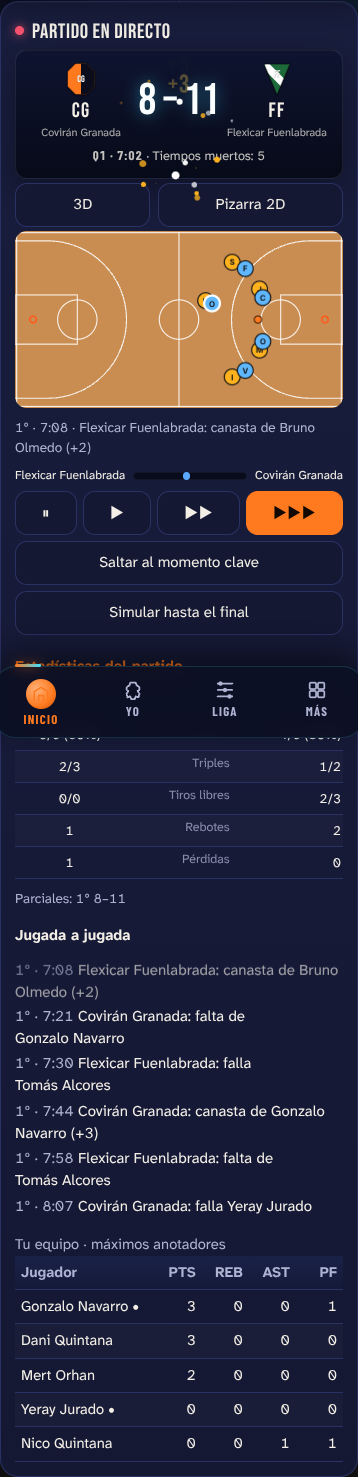
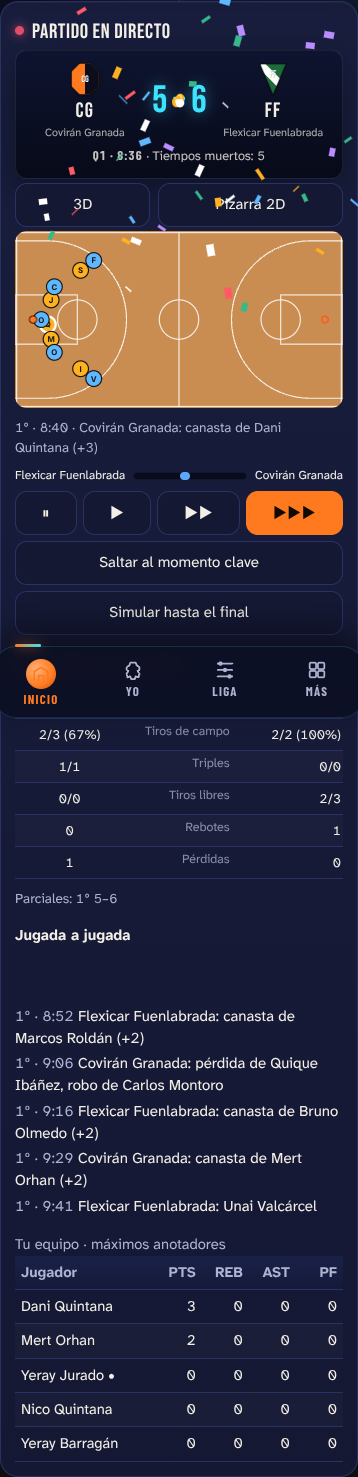
Directo sincronizado con el 3D, modelo de jugadora propio y plantillas por género
- El marcador solo avanza cuando el 3D escenifica la jugada: no hay puntos sin canasta
- Ataques algo más largos, cámara más cerca y sin amontonamientos tras canasta
- Jugadoras más estilizadas, con coleta, moño o trenzas y cinta del color del equipo
- Las plantillas reales se aplican solo a su género (Valencia Basket, Casademont Zaragoza y Virtus Bologna femeninos ya no heredan la masculina)

Claude-Session: https://claude.ai/code/session_019gkjbxBULuptwgp5eXcimF

diff --git a/src/domain/real-rosters.js b/src/domain/real-rosters.js
@@ -4,6 +4,10 @@
   // reales sin serlo. Formato por jugador: [nombre, posición, edad, media, nacionalidad]. Generado fuera del repo.
   const CAA = root.CAA = root.CAA || {};
   const ROSTERS = {"Cleveland Cavaliers":[["Donovan Mittchell","SG",29,84,"US"],["Darius Garrland","PG",26,77,"US"],["Evan Movley","PF",24,81,"US"],["Jarrett Alen","C",27,75,"US"],["De'Andre Hunnter","SF",28,71,"US"],["Max Struz","SG",29,68,"US"],["Sam Merril","SG",29,64,"US"],["Dean Wadde","PF",29,62,"US"],["Lonzo Bal","PG",27,65,"US"],["Jaylon Tison","SF",23,61,"US"]],"Boston Celtics":[["Jaison Tattum","SF",27,86,"US"],["Jailen Broun","SG",29,81,"US"],["Derrikk Whyte","PG",31,76,"US"],["Paiton Prytchard","PG",27,71,"US"],["Neemmias Quetta","C",26,64,"PT"],["Sam Hauzer","SF",27,65,"US"],["Annfernee Symons","SG",26,71,"US"],["Jozh Minnott","PF",23,61,"US"],["Bailor Scheierrman","SG",25,60,"US"],["Lukka Garrza","C",26,60,"US"]],"New York Knicks":[["Jalen Brunnson","PG",29,84,"US"],["Karl-Anthony Touns","C",30,82,"DO"],["OG Anunovy","SF",28,76,"GB"],["Mikal Briddges","SF",29,75,"US"],["Josh Harrt","SG",30,72,"US"],["Mitchell Robynson","C",27,68,"US"],["Miles MkBride","PG",25,65,"US"],["Jordan Clarcson","SG",33,66,"PH"],["Guerschon Yabuzele","PF",29,66,"FR"],["Landry Shammet","SG",28,60,"US"]],"Oklahoma City Thunder":[["Shay Gilgeouz-Alexander","PG",27,90,"CA"],["Jallen Williamms","SF",24,81,"US"],["Chete Hollmgren","C",23,80,"US"],["Lugguentz Dorrt","SG",26,70,"CA"],["Isayah Hartensteyn","C",27,72,"DE"],["Allex Carruso","SG",31,69,"US"],["Casson Walace","PG",22,68,"US"],["Aarron Wyggins","SF",26,65,"US"],["Isayah Joee","SG",26,65,"US"],["Ajai Mitchel","PG",23,64,"BE"]],"Denver Nuggets":[["Nikola Jokyć","C",30,92,"RS"],["Jamal Murrai","PG",28,80,"CA"],["Aaron Gorrdon","PF",30,73,"US"],["Cameron Johnzon","SF",29,71,"US"],["Christian Braune","SG",24,70,"US"],["Peyton Wattson","SF",23,65,"US"],["Bruce Broun","SG",29,65,"US"],["Jonas Valančyūnas","C",33,68,"LT"],["Tim Harrdaway Jr.","SG",33,64,"US"],["Julian Strauther","SG",23,60,"US"]],"Houston Rockets":[["Kevin Durrant","SF",37,84,"US"],["Alperen Şenngün","C",23,82,"TR"],["Amen Thompzon","SF",22,76,"US"],["Jabari Smyth Jr.","PF",22,72,"US"],["Fred VannVleet","PG",31,71,"US"],["Tari Easson","PF",24,68,"US"],["Steven Addams","C",32,66,"NZ"],["Reed Shepparrd","PG",21,66,"US"],["Dorian Finnei-Smith","PF",32,63,"US"],["Clint Cappela","C",31,64,"CH"]],"Indiana Pacers":[["Tyrese Halliburton","PG",25,83,"US"],["Pascal Syakam","PF",31,80,"CM"],["Andrew Nemvhard","PG",25,70,"CA"],["Aaron Nessmith","SF",26,68,"US"],["Bennedict Matthurin","SG",23,70,"CA"],["T.J. McConnel","PG",33,65,"US"],["Obi Toppyn","PF",27,64,"US"],["Jarace Walcer","PF",22,62,"US"],["Isaiah Jackzon","C",23,61,"US"],["Ben Shepparrd","SG",24,60,"US"]],"Minnesota Timberwolves":[["Anthoni Eddwards","SG",24,86,"US"],["Jullius Ranndle","PF",31,77,"US"],["Rudi Govert","C",33,75,"FR"],["Jadden McDanielz","SF",25,72,"US"],["Donnte DiVinncenzo","SG",28,68,"US"],["Naz Reyd","C",26,70,"US"],["Myke Connley","PG",38,63,"US"],["Rob Dyllingham","PG",21,61,"US"],["Terrennce Shanon Jr.","SG",25,60,"US"],["Joe Inglez","SF",38,56,"AU"]],"Los Angeles Lakers":[["Luca Donnčić","PG",26,89,"SI"],["LeBrone Jamez","SF",41,82,"US"],["Ausstin Reavves","SG",27,77,"US"],["Deanndre Aiton","C",27,72,"BS"],["Rui Hacchimura","PF",27,69,"JP"],["Marcuz Smarrt","PG",31,67,"US"],["Jace LaRabia","SF",24,64,"US"],["Jaxzon Hayez","C",25,61,"US"],["Gave Vinkent","PG",29,60,"US"],["Dallton Kneccht","SG",24,61,"US"]],"Golden State Warriors":[["Stephen Curri","PG",37,86,"US"],["Jimmy Buttler","SF",36,79,"US"],["Draymond Greene","PF",35,70,"US"],["Brandin Podzyemski","SG",22,69,"US"],["Jonathan Kumynga","PF",23,70,"CD"],["Moses Mooddy","SG",23,66,"US"],["Buddy Hielld","SG",33,65,"BS"],["Al Horrford","C",39,64,"DO"],["De'Anthony Mellton","SG",27,64,"US"],["Quinten Pozt","C",25,60,"NL"]],"LA Clippers":[["Kawhi Leonnard","SF",34,83,"US"],["James Harrden","PG",36,80,"US"],["Ivica Zubak","C",28,74,"HR"],["John Collinns","PF",28,69,"US"],["Bradley Beale","SG",32,68,"US"],["Derrick Jonnes Jr.","SF",28,65,"US"],["Kris Dun","PG",31,64,"US"],["Nicolas Battum","SF",37,60,"FR"],["Brook Lopes","C",37,63,"US"],["Bogdan Bogdanobić","SG",33,64,"RS"]],"Memphis Grizzlies":[["Ja Morrant","PG",26,83,"US"],["Jaren Jacckson Jr.","PF",26,80,"US"],["Zach Eddey","C",23,70,"CA"],["Santi Alldama","PF",24,67,"ES"],["Jaylen Wels","SF",22,66,"US"],["Scotty Pyppen Jr.","PG",25,64,"US"],["Kentavious Calldwell-Pope","SG",32,63,"US"],["Cedric Couard","SF",22,63,"US"],["Ty Jerrome","PG",28,63,"US"],["Vince Wylliams Jr.","SG",25,63,"US"]],"San Antonio Spurs":[["Vyctor Wembaniama","C",21,88,"FR"],["De'Aarron Foks","PG",28,80,"US"],["Stefon Caztle","SG",21,72,"US"],["Dilan Harrper","PG",19,70,"US"],["Devvin Vazsell","SG",25,70,"US"],["Harryson Barrnes","SF",33,66,"US"],["Kelldon Johnzon","SF",26,66,"US"],["Jerremy Sokhan","PF",22,65,"PL"],["Luce Korrnet","C",30,62,"US"],["Julyan Champagnye","SF",24,63,"US"]],"Dallas Mavericks":[["Anthony Davvis","PF",32,84,"US"],["Kyrie Irbing","PG",33,81,"US"],["Cooper Flagge","SF",19,78,"US"],["Klay Thommpson","SG",35,70,"US"],["P.J. Wazhington","PF",27,70,"US"],["Daniel Gafforrd","C",27,68,"US"],["Dereck Liveli II","C",21,69,"US"],["Naji Marshal","SF",28,65,"US"],["D'Angelo Russel","PG",29,66,"US"],["Max Chrystie","SG",22,63,"US"]],"Sacramento Kings":[["Domantaz Saboniz","C",29,81,"LT"],["Zacch LaVinne","SG",30,78,"US"],["DeMare DeRozzan","SF",36,76,"US"],["Malyk Monc","SG",27,71,"US"],["Keeggan Murrai","PF",25,70,"US"],["Dennys Skhröder","PG",32,67,"DE"],["Russel Wesstbrook","PG",37,64,"US"],["Keone Elis","SG",25,62,"US"],["Devyn Carrter","PG",23,60,"US"],["Dreu Eubankz","C",28,58,"US"]],"Phoenix Suns":[["Devin Bookker","SG",29,84,"US"],["Jalen Greene","SG",23,74,"US"],["Dillon Broocs","SF",29,69,"CA"],["Grayson Alen","SG",30,66,"US"],["Mark Williamz","C",24,69,"US"],["Royce O'Nealle","SF",32,63,"US"],["Ryan Dun","SF",22,62,"US"],["Collin Gilespie","PG",26,63,"US"],["Oso Igghodaro","C",23,60,"US"],["Nick Ricchards","C",28,60,"JM"]],"Portland Trail Blazers":[["Dammian Lilard","PG",35,76,"US"],["Jerrami Grannt","PF",31,70,"US"],["Shaeddon Sharrpe","SG",22,72,"CA"],["Skoot Henderzon","PG",21,67,"US"],["Toummani Cammara","SF",25,68,"BE"],["Donoban Clinngan","C",21,69,"US"],["Jruee Holidai","PG",35,70,"US"],["Rovert Wiliams III","C",28,62,"US"],["Kriz Murrai","PF",25,60,"US"],["Matizse Thibulle","SF",28,62,"US"]],"Orlando Magic":[["Paolo Bannchero","PF",23,84,"US"],["Franz Waggner","SF",24,81,"DE"],["Desmond Banne","SG",27,76,"US"],["Jalen Suggz","PG",24,72,"US"],["Wendell Carrter Jr.","C",26,69,"US"],["Anthony Blakk","PG",21,66,"US"],["Goga Bittadze","C",26,63,"GE"],["Jonathan Issaac","PF",28,64,"US"],["Tyus Jonnes","PG",29,63,"US"],["Tristan da Sillva","SF",24,62,"DE"]],"Detroit Pistons":[["Cade Cuningham","PG",24,85,"US"],["Jalen Durren","C",22,74,"US"],["Ausar Thommpson","SF",22,71,"US"],["Tobias Harrys","PF",33,70,"US"],["Jaden Ivei","SG",23,70,"US"],["Isaiah Steuart","C",24,67,"US"],["Duncan Robynson","SG",31,65,"US"],["Ron Hollannd II","SF",20,63,"US"],["Caris LeVerrt","SG",31,64,"US"],["Marcus Saser","PG",25,60,"US"]],"Milwaukee Bucks":[["Giannis Anntetokounmpo","PF",31,90,"GR"],["Myles Turrner","C",29,74,"US"],["Kevin Porrter Jr.","PG",25,69,"US"],["Kyle Kusma","PF",30,68,"US"],["Bobby Portys","PF",30,67,"US"],["Gary Trennt Jr.","SG",27,65,"US"],["AJ Greene","SG",26,62,"US"],["Taurean Prynce","SF",31,61,"US"],["Ryan Rollyns","PG",23,63,"US"],["Gary Harriz","SG",31,58,"US"]],"Atlanta Hawks":[["Traee Younng","PG",27,82,"US"],["Jallen Johnzon","SF",24,78,"US"],["Krystaps Porziņģiz","C",30,76,"LV"],["Dyzon Danielz","SG",22,73,"AU"],["Nikkeil Alexander-Walcer","SG",27,69,"CA"],["Onnyeka Okonguu","C",25,70,"US"],["Zaccharye Risakher","SF",20,66,"FR"],["Luce Kenard","SG",29,63,"US"],["Mouhammed Gueie","PF",23,60,"SN"],["Kove Buffkin","PG",22,58,"US"]],"Miami Heat":[["Bam Adevayo","C",28,80,"US"],["Tyler Herroe","SG",25,78,"US"],["Norman Pouell","SG",32,72,"US"],["Andrew Wyggins","SF",30,70,"CA"],["Kel'el Warre","C",21,69,"US"],["Davion Mytchell","PG",27,66,"US"],["Jaime Jaques Jr.","SF",24,66,"US"],["Nikola Jovyć","PF",22,65,"RS"],["Terry Rozyer","PG",31,63,"US"],["Pelle Larrsson","SG",24,60,"SE"]],"Philadelphia 76ers":[["Joele Emmbiid","C",31,84,"CM"],["Tyresse Maksey","PG",25,82,"US"],["Paule Georrge","SF",35,76,"US"],["VJ Edgekombe","SG",20,70,"BS"],["Kely Ouvre Jr.","SF",30,68,"US"],["Quenntin Grimez","SG",25,68,"US"],["Jarred MkCain","PG",21,67,"US"],["Anndre Drummonnd","C",32,63,"US"],["Kile Lowri","PG",39,58,"US"],["Justyn Eddwards","SF",21,58,"US"]],"Toronto Raptors":[["Scottie Barnez","SF",24,80,"US"],["Brandon Inngram","SF",28,77,"US"],["Immanuel Quikkley","PG",26,72,"US"],["RJ Barret","SG",25,73,"CA"],["Jakob Poelltl","C",30,71,"AT"],["Gradey Dikk","SG",21,66,"US"],["Ja'Kobe Wallter","SG",21,62,"US"],["Collin Murrai-Boyles","PF",20,63,"US"],["Jamal Sheade","PG",23,60,"US"],["Ochai Agbayi","SG",25,60,"US"]],"Chicago Bulls":[["Josh Giddei","PG",23,75,"AU"],["Nikola Vučevyć","C",35,72,"ME"],["Coby Whyte","SG",25,73,"US"],["Matas Buzelys","SF",21,70,"US"],["Ayo Dozunmu","SG",25,67,"US"],["Patrick Wiliams","PF",24,64,"US"],["Kevin Huerrter","SG",27,64,"US"],["Isaac Ocoro","SF",24,62,"US"],["Tre Jonnes","PG",25,63,"US"],["Jalen Smitth","C",25,62,"US"]],"Charlotte Hornets":[["LaMello Bal","PG",24,80,"US"],["Branndon Myller","SF",23,76,"US"],["Milles Briddges","PF",27,72,"US"],["Kon Knueppele","SG",20,70,"US"],["Colin Sekston","PG",26,69,"US"],["Mousa Dyabaté","C",24,62,"FR"],["Grannt Wylliams","PF",26,62,"US"],["Jozh Greene","SG",25,61,"AU"],["Rian Kalkbrener","C",23,60,"US"],["Tre Man","PG",24,62,"US"]],"Brooklyn Nets":[["Michael Porrter Jr.","SF",27,76,"US"],["Cam Thomaz","SG",24,73,"US"],["Nic Clakston","C",26,70,"US"],["Terance Man","SG",29,65,"US"],["Noah Clownei","PF",21,63,"US"],["Egor Dëmmin","PG",19,64,"RU"],["Day'Ron Sharrpe","C",24,61,"US"],["Ziaire Williamz","SF",24,61,"US"],["Haywood Highzmith","SF",29,60,"US"],["Nolan Traorre","PG",19,60,"FR"]],"Washington Wizards":[["CJ McColum","SG",34,73,"US"],["Khriz Myddleton","SF",34,68,"US"],["Aleksandre Sarre","C",20,70,"FR"],["Bylal Coulivaly","SF",21,68,"FR"],["Bub Carrinngton","PG",20,65,"US"],["Kyzhawn Georrge","SF",22,63,"CH"],["Tre Johnzon","SG",19,65,"US"],["Marbin Baglei III","PF",26,61,"US"],["Correy Kyspert","SF",26,62,"US"],["Cam Whittmore","SF",21,63,"US"]],"New Orleans Pelicans":[["Zion Wiliamson","PF",25,79,"US"],["Trey Murphi III","SF",25,75,"US"],["Dejounte Murrai","PG",29,73,"US"],["Jordan Poolle","SG",26,70,"US"],["Herbert Jonez","SF",27,69,"US"],["Yves Misi","C",21,66,"BE"],["Saddiq Bei","SF",26,64,"US"],["Derik Queene","C",21,65,"US"],["Jeremiah Fearrs","PG",19,63,"US"],["Kevon Loonei","C",29,60,"US"]],"Utah Jazz":[["Lauri Marckanen","PF",28,78,"FI"],["Walker Kezsler","C",24,71,"US"],["Keyonte Georrge","PG",22,70,"US"],["Ace Bailei","SF",19,68,"US"],["Isaiah Collyer","PG",21,64,"US"],["Cody Wiliams","SF",21,62,"US"],["Kyle Filipowzki","C",22,63,"US"],["Svi Mykhayliuk","SF",28,60,"UA"],["Brice Sennsabaugh","SF",22,62,"US"],["Jusuf Nurcić","C",31,63,"BA"]],"Real Madrid":[["Facundo Cammpazzo","PG",34,76,"AR"],["Mario Hezonya","SF",30,76,"HR"],["Walter Tavarez","C",33,75,"CV"],["Gabriel Decck","PF",30,70,"AR"],["Andrés Felliz","PG",28,69,"DO"],["Alberto Avalde","SF",29,66,"ES"],["Sergio Llul","SG",38,64,"ES"],["Usman Garruba","PF",23,67,"ES"],["Théo Malledon","PG",24,68,"FR"],["Trey Liles","PF",30,68,"CA"],["Chuma Okkeke","PF",27,64,"US"],["Alex Lene","C",32,64,"UA"]],"Barça":[["Kevyn Punnter","SG",32,74,"US"],["Jan Vesselý","C",35,68,"CZ"],["Tommáš Satoranscý","PG",34,69,"CZ"],["Joele Parrae","PF",25,66,"ES"],["Wylly Herrnangómez","C",31,71,"ES"],["Darrío Brisuela","SG",31,68,"ES"],["Niko Lapprovíttola","PG",35,66,"AR"],["Myles Norriz","PF",25,65,"US"],["Wyll Clyvurn","SF",35,70,"US"],["Torrnike Shengelya","PF",34,68,"GE"],["Miles Calle","SG",26,63,"US"],["Juanni Marcoz","PG",24,60,"AR"]],"Valencia Basket":[["Jean Monntero","PG",22,72,"DO"],["Brancou Badyo","PG",26,66,"SN"],["Sergio de Larreae","PG",20,67,"ES"],["Jaime Pradylla","PF",24,65,"ES"],["Xabi López-Arosteguy","SF",28,66,"ES"],["Josep Puerrto","SG",30,64,"ES"],["Yankuba Syma","C",28,65,"ES"],["Matt Coztello","C",32,64,"US"],["Omari Moorre","SG",25,65,"US"],["Darius Thommpson","PG",30,67,"US"],["Kameron Tailor","SF",31,67,"US"],["Neal Sakko","C",26,63,"FR"]],"Unicaja":[["Tyzon Carrter","SG",26,69,"US"],["Kenndrick Perri","PG",33,68,"ME"],["Tiler Kalinozki","SG",33,65,"US"],["Alverto Días","PG",31,63,"ES"],["Kyllian Tyllie","PF",27,66,"FR"],["Olec Balcerouski","C",25,66,"PL"],["Davvid Kravvish","C",33,64,"US"],["Chriz Duarrte","SG",28,67,"DO"],["Jonnathan Barreirro","PF",28,62,"ES"],["Nyhad Djeddović","SF",35,61,"BA"]],"Baskonia":[["Markuz Howarrd","PG",26,72,"US"],["Trennt Forresst","PG",27,67,"US"],["Tymothé Luwawu-Cabbarrot","SF",30,67,"FR"],["Khallifa Dyop","C",23,66,"SN"],["Taddas Seddekerskis","PF",27,65,"LT"],["Roddions Kuruks","SF",27,64,"LV"],["Hamydou Dialo","SG",27,67,"US"],["Koby Simmonns","PG",28,65,"US"],["Raffa Vilar","PG",24,60,"ES"],["Mamady Diakkite","PF",28,64,"GN"]],"La Laguna Tenerife":[["Marrcelinho Huerrtas","PG",42,68,"BR"],["Aarron Doornecamp","SF",40,60,"CA"],["Gio Sherrmadini","C",36,66,"GE"],["Brunno Fytipaldo","PG",34,64,"UY"],["Frane Guerrae","C",33,61,"ES"],["Jaimme Fernándes","SG",32,63,"ES"],["Tim Abromaytis","PF",35,61,"US"],["Rubbén Domíngues","SF",21,62,"ES"]],"Dreamland Gran Canaria":[["Mike Tobei","C",31,66,"US"],["Nicolás Brusino","SF",32,61,"AR"],["Pierre Peloz","SF",33,62,"FR"],["Miquel Sallvó","SF",30,60,"ES"],["Ethan Happe","C",29,65,"US"],["Andrew Albiky","PG",35,62,"FR"],["Jovan Kljajyć","SG",26,61,"RS"],["Chris Chyozza","PG",30,62,"US"],["Ziga Sammar","PG",24,62,"SI"],["Mike Daume","PF",30,61,"US"]],"UCAM Murcia":[["Dylan Enniz","PG",34,67,"CA"],["David DeJulyus","PG",26,66,"US"],["Howard Sant-Rooz","SF",34,62,"CU"],["Emanuel Catte","PF",26,62,"US"],["Simon Birrgander","C",28,61,"SE"],["Sadiel Rojaz","SF",35,60,"DO"],["Nemanja Radobić","PF",34,59,"ME"],["Jonah Raddebaugh","SG",28,60,"US"]],"Joventut Badalona":[["Riccy Rubyo","PG",35,67,"ES"],["Guilem Vibes","PG",32,63,"ES"],["Annte Tomyć","C",38,62,"HR"],["Kazsius Robbertson","SG",31,64,"CA"],["Sam Decker","SF",31,63,"US"],["Cammeron Hunnt","SG",28,61,"US"],["Migguel Alen","PF",21,60,"ES"],["Yannikk Kraage","C",21,60,"NL"],["Pep Bussquets","SG",21,58,"ES"],["Mychael Ruzik","C",20,58,"HR"]],"Casademont Zaragoza":[["Sannti Yussta","SF",28,64,"ES"],["Joaqquín Rodrígues","PG",31,60,"ES"],["Dussan Myletić","C",27,62,"RS"],["Traee Bell-Haines","PG",30,63,"CA"],["Bel Lluíz","PF",25,58,"ES"],["Lucaz Langaryta","SG",28,59,"ES"],["Perre Tomàz","SF",31,58,"ES"],["Emmannuel Leccomte","SG",30,59,"BE"],["Ilymane Dyop","C",30,59,"SN"]],"Surne Bilbao Basket":[["Margiris Norrmantas","SG",29,63,"LT"],["Harald Eggerrs","SG",21,60,"DE"],["Melwin Pantsar","PG",25,62,"SE"],["Tryggvi Hlinazon","C",28,62,"IS"],["Luke Petrazek","PF",30,61,"US"],["Justin Jaworrski","SG",26,61,"US"],["Amar Syla","PF",23,61,"SN"],["Aleix Fonnt","SG",27,59,"ES"],["Bassala Bagaioko","PF",19,58,"ML"],["Stefan Lasarević","SF",28,59,"RS"]],"Río Breogán":[["Eryk Quyntela","SF",27,61,"ES"],["Sergy Quyntela","PG",24,59,"ES"],["Branndon Tailor","PG",31,62,"US"],["Jorrdan Sacho","C",27,61,"FR"],["Mikkel Okkouo","SF",21,59,"ES"],["Calev Homeslei","SG",29,62,"US"],["Joele Sorriano","C",26,60,"US"],["Ben Mvala","C",33,58,"CM"],["Maryo Sainnt-Supéry","PG",19,60,"ES"],["Daullton Hommez","SF",28,60,"US"]],"BAXI Manresa":[["Dany Péres","PG",35,61,"ES"],["Marrcis Steinbergz","SF",26,60,"LV"],["Gerrard Gommila","PG",21,58,"ES"],["Grannt Gollden","C",27,60,"US"],["Raffa Martínes","SG",43,55,"ES"],["Pyerre Oryola","C",33,59,"ES"],["Bryce Dezsert","C",30,59,"FR"],["Mammadou Nyang","PF",27,60,"SN"],["Ivvan Kharrchenkov","SF",20,61,"DE"],["Jonnathan Tabbu","PG",39,57,"BE"]],"MoraBanc Andorra":[["Ferran Basas","PG",32,62,"ES"],["Clevin Hanah","PG",38,58,"US"],["Shannon Ebans","PG",35,61,"US"],["Pablo Péres","PG",24,58,"ES"],["Kyle Alman","SG",28,61,"US"],["Ben Lammerrs","C",30,60,"US"],["Trey Thompkyns","PF",35,58,"US"],["Babatunde Olumuyywa","C",27,59,"NG"],["Jerrick Hardyng","SG",27,61,"US"],["Jeremy Senglyn","PG",29,59,"US"]],"Bàsquet Girona":[["Mark Gassol","C",40,60,"ES"],["Pau Rivas","SG",38,56,"ES"],["Riccard Losano","PF",21,57,"ES"],["Jacov Wilei","PF",31,60,"US"],["Etthan Essposito","SF",25,59,"IT"],["Micchael Devvoe","SG",26,61,"US"],["Luddee Håkanzon","PG",29,60,"SE"],["Mindaugaz Kuzmynskas","SF",36,57,"LT"],["Mice Smyth","SF",30,58,"US"],["Serrgi Martínes","SF",26,58,"ES"]],"Hiopos Lleida":[["Kile Manngas","SG",28,60,"US"],["Oryol Paullí","SF",32,58,"ES"],["Ike Iroegvu","PG",30,59,"NG"],["Jamez Battemon","SG",28,60,"US"],["Kerrem Kannter","C",31,59,"TR"],["Joane Tomàz","PF",29,57,"ES"],["Jejjuan Hyll","SG",26,58,"US"],["Edu Durrán","C",24,56,"ES"]],"San Pablo Burgos":[["Alex Barrerra","PG",33,59,"ES"],["Gonzalo Corvalán","PG",30,58,"AR"],["Juanma Roddríguez","SG",28,57,"ES"],["Kyle Aleksander","C",28,60,"CA"],["Jeff Garret","PF",30,59,"US"],["Ruben Guerrerro","C",31,58,"ES"],["Diego Gyl","SF",26,56,"ES"],["Matt Thomaz","SG",31,60,"US"],["Raúl Netto","PG",33,60,"BR"],["Bobi Klinntman","PF",30,58,"SE"]],"Leyma Coruña":[["Phil Skrubb","SG",33,59,"CA"],["Thomas Broppleh","SG",35,57,"US"],["Kevin Larzen","C",34,58,"DK"],["Diego Aggulló","PF",28,56,"ES"],["Atoumane Dyagne","C",26,58,"SN"],["Iván Crus","PF",36,56,"ES"],["Jacob Pulen","PG",36,57,"US"],["Obi Ennechionyia","PF",31,57,"US"],["Kendall Munnson","SF",26,56,"US"]],"AS Monaco":[["Mike Jamez","PG",35,74,"US"],["Elie Okovo","PG",28,70,"FR"],["Alpha Dialo","SF",28,68,"US"],["Daniel Theys","C",33,67,"DE"],["Mam Jaitteh","C",30,66,"FR"],["Nikola Myrotić","PF",34,72,"ME"],["Matthew Strazzel","PG",23,64,"FR"],["Jaron Blozsomgame","PF",32,64,"US"],["Kevarrius Hayez","C",28,63,"US"],["Yakuba Ouatara","SG",33,60,"FR"]],"Paris Basketball":[["Tyson Warrd","SF",27,67,"US"],["Nadir Hiffi","PG",23,70,"FR"],["Derrick Alzton","SF",25,65,"US"],["Mikael Janntunen","PF",25,66,"FI"],["Collin Malkolm","SF",27,63,"US"],["Sebastian Herrerra","SG",28,63,"US"],["Amir Hynton","SG",28,63,"US"],["Mohamed Diauara","SF",21,62,"FR"],["Maodo Lôe","PG",33,64,"DE"],["Leon Krattzer","C",28,62,"DE"]],"LDLC ASVEL":[["Nando De Collo","SG",38,66,"FR"],["Paris Leee","PG",30,64,"US"],["Edwin Jaccson","SG",36,60,"FR"],["Joffrey Laubergne","C",34,62,"FR"],["Melvin Ajjinça","SF",21,64,"FR"],["Bonzie Colzon","PF",29,63,"US"],["David Ligghty","SF",37,56,"US"],["Ismaël Baco","C",30,60,"BE"],["Charles Kahuddi","SF",39,55,"FR"]],"Virtus Bologna":[["Carsen Eddwards","PG",27,71,"US"],["Matt Morrgan","SG",28,65,"US"],["Alessandro Payola","PG",26,63,"IT"],["Saliou Nyang","SF",21,64,"IT"],["Luca Vyldoza","PG",30,64,"AR"],["Momo Dyouf","C",24,63,"IT"],["Nicola Acele","PF",30,61,"IT"],["Isaïa Corrdinier","SG",29,65,"FR"],["Achille Pollonara","PF",34,62,"IT"]],"Olimpia Milano":[["Shavon Shyelds","SF",31,71,"DK"],["Armoni Brookks","SG",27,66,"US"],["Leandro Bollmaro","SF",25,66,"AR"],["Zach LeDai","PF",31,67,"US"],["Josh Nevo","C",28,67,"US"],["Stefano Tonnut","SG",32,62,"IT"],["Giampaolo Rycci","PF",34,58,"IT"],["Lorenzo Broun","PG",35,64,"ES"],["Nico Mannyon","PG",24,64,"IT"]],"FC Bayern München":[["Anndreas Obzt","SG",29,67,"DE"],["Niells Gyffey","SF",34,60,"DE"],["Johannez Voygtmann","PF",33,64,"DE"],["Devyn Boocer","PF",34,64,"US"],["Vladymir Lučyć","SF",36,61,"RS"],["Spenker Dinuiddie","PG",32,67,"US"],["Ozcar da Silba","PF",27,64,"DE"],["Nikk Weiller-Babb","SG",30,61,"DE"],["Davvid MkCormack","C",26,62,"US"]],"ALBA Berlin":[["Mateo Spaggnolo","PG",23,64,"IT"],["Marrtin Hermannson","PG",31,62,"IS"],["Tim Skhneider","PF",28,60,"DE"],["Mallte Dellow","SG",24,60,"DE"],["Gavriele Prokida","SF",23,62,"IT"],["Yani Wetzel","C",29,61,"NZ"],["Trevyon Williamz","C",25,61,"US"],["Jonaz Mattiseck","SG",25,59,"DE"],["Louys Ollinde","PF",27,60,"DE"],["Juztin Beane","PF",28,58,"US"]],"Fenerbahçe Beko":[["Wade Balduin IV","PG",29,72,"US"],["Nigel Hayess-Davis","SF",30,73,"US"],["Tarik Biverović","SF",24,67,"BA"],["Devon Hal","SG",30,66,"US"],["Nicolò Melly","PF",35,65,"IT"],["Sertaç Şannlı","C",34,63,"TR"],["Arturs Žagarz","PG",25,64,"LV"],["Talen Horton-Tuccer","SG",25,67,"US"],["Khem Birrch","C",33,63,"CA"],["Chris Sillva","C",29,64,"GA"]],"Anadolu Efes":[["Shanne Larcin","PG",33,72,"TR"],["Rodrygue Beauboys","SG",37,62,"FR"],["Vyncent Poirrier","C",32,68,"FR"],["Errcan Ozmani","PF",28,62,"TR"],["Wyll Cummingz","PG",33,62,"US"],["Ellijah Bryannt","SG",30,68,"US"],["Tivor Pleyß","C",36,61,"DE"],["Jorrdan Loid","SG",32,66,"PL"]],"Olympiacos":[["Sazha Vezenkob","PF",30,76,"BG"],["Eban Fournyer","SF",33,70,"FR"],["Koztas Papanicolaou","SF",35,64,"GR"],["Thommas Walcup","PG",33,67,"US"],["Nykola Mylutinov","C",31,70,"RS"],["Mouztapha Fal","C",33,67,"FR"],["Kebin McClayn","SG",27,63,"US"],["Shaquyelle MkKissic","SF",35,60,"US"],["Allec Peterz","PF",30,63,"US"],["Tiler Dorsei","SG",29,66,"GR"]],"Panathinaikos AKTOR":[["Kendrick Nun","PG",30,76,"US"],["Kostas Sloucas","PG",35,66,"GR"],["Mathias Lezsort","C",30,70,"FR"],["Cedi Ozman","SF",30,69,"TR"],["Juancho Hernangómes","PF",30,66,"ES"],["Jerian Grannt","PG",33,66,"US"],["Omer Yurrtseven","C",27,66,"TR"],["Kostas Mytoglou","PF",29,64,"GR"],["TJ Shorrts","PG",28,68,"US"],["Richaun Holmez","C",32,64,"US"]],"Žalgiris Kaunas":[["Silvain Francysco","PG",28,69,"FR"],["Lucas Lekavyčius","PG",31,64,"LT"],["Iggnas Brasdeikis","SF",26,65,"LT"],["Laurinas Byrutis","C",28,64,"LT"],["Deibidas Sirrvydis","SF",25,62,"LT"],["Eddgaras Ullanovas","SF",33,60,"LT"],["Arrnas Butcevičius","SG",33,58,"LT"],["Manntas Rubbštavičius","SG",25,60,"LT"],["Brice Hopkyns","SF",23,62,"US"],["Mozes Wryght","PF",27,63,"US"]],"Partizan Mozzart Bet":[["Carrlik Jonnes","PG",28,68,"JM"],["Sterlyng Broun","SF",30,64,"US"],["Duanne Wazhington Jr.","SG",25,66,"US"],["Issaac Bonnga","SF",26,64,"DE"],["Tirique Jonnes","C",28,65,"US"],["Draggan Milosavlyević","SF",36,58,"RS"],["Shace Mylton","SG",29,66,"US"],["Brunno Cavoclo","PF",30,64,"BR"],["Alleksej Pokušebski","PF",24,63,"RS"],["Marrio Nakkić","SF",24,61,"RS"]],"Crvena Zvezda Meridianbet":[["Cody Miller-MkIntyre","PG",31,67,"BG"],["Nicola Kalynić","SF",34,62,"RS"],["Oggnjen Dobbrić","SF",31,62,"RS"],["Hazsan Martyn","C",30,64,"US"],["Jorrdan Nworra","SF",27,67,"NG"],["Chimma Monece","PF",30,66,"NG"],["Ebuca Izzundu","C",29,62,"NG"],["Debonte' Grahame","PG",30,64,"US"],["Steffan Milyenović","SG",24,58,"RS"]],"Dubai Basketball":[["Džennan Mussa","SF",26,70,"BA"],["Klemmen Prepelyč","SG",32,65,"SI"],["Alecsa Abramović","SG",31,64,"RS"],["Daviz Berrtāns","PF",33,63,"LV"],["Mfyondu Kabbengele","C",28,64,"CA"],["McKinnley Wryght IV","PG",27,66,"US"],["Fillip Pettrušev","C",25,66,"RS"],["Awuddu Abazs","SF",32,60,"IT"],["Jusstin Cobbz","PG",34,60,"US"],["Ahmade Al Mazri","PG",25,56,"AE"]],"Minnesota Lynx":[["Napheeza Collyer","PF",29,86,"US"],["Kaila McBryde","SG",33,73,"US"],["Courrtney Wiliams","PG",31,73,"US"],["Allanna Smitth","C",29,70,"AU"],["Brydget Carrleton","SF",28,66,"CA"],["Nattisha Hyedeman","PG",28,64,"US"],["Jesica Sheppard","PF",29,65,"US"],["Dyamond Myller","SF",24,62,"US"],["Marria Kliunndikova","C",28,60,"RU"]],"New York Liberty":[["Breanna Steuart","PF",31,86,"US"],["Sabrina Ionezcu","PG",28,82,"US"],["Jonquel Jonnes","C",32,78,"BS"],["Natasha Cloude","PG",33,70,"US"],["Leonie Fiebikh","SF",25,66,"DE"],["Kennedy Burrke","SG",28,62,"US"],["Emma Meessemman","PF",32,72,"BE"],["Nyara Sabbally","PF",25,62,"DE"],["Isabelle Harrizon","C",32,60,"US"]],"Las Vegas Aces":[["A'ya Willson","C",29,90,"US"],["Jakkie Younng","SG",28,79,"US"],["Chelzea Grai","PG",33,74,"US"],["Jewel Loid","SG",32,72,"US"],["NaLyzsa Smyth","PF",25,66,"US"],["Danna Evvans","PG",27,63,"US"],["Kyah Stoces","C",32,60,"US"],["Cheyene Parker-Tyuz","PF",33,62,"US"],["Aalyyah Nie","SG",22,60,"US"]],"Indiana Fever":[["Caittlin Clarrk","PG",24,86,"US"],["Alyyah Bozton","C",24,80,"VI"],["Kelsei Mitchel","SG",30,77,"US"],["Nattasha Houard","PF",34,70,"US"],["Leksie Hul","SF",26,64,"US"],["Sopphie Cunninngham","SG",29,64,"US"],["Sidney Colzon","PG",36,56,"US"],["Dammiris Dantaz","PF",33,60,"BR"],["Makaila Timmpson","PF",22,58,"US"]],"Phoenix Mercury":[["Allyssa Thommas","PF",33,82,"US"],["Kahleahe Coppere","SG",31,78,"US"],["Sattou Sabbally","SF",27,78,"DE"],["Monyque Akoa Makany","PG",25,62,"CM"],["Nattasha Macc","C",28,62,"US"],["DeWana Boner","SF",38,64,"US"],["Sammi Whitkomb","SG",37,62,"AU"],["Kitiya Lacsa","SG",29,62,"LV"],["Leksi Helld","SG",26,58,"US"]],"Atlanta Dream":[["Alisha Grai","SG",30,80,"US"],["Rhine Howarrd","SG",25,79,"US"],["Britney Grinner","C",35,70,"US"],["Bryonna Jonez","C",30,72,"US"],["Jorrdin Cannada","PG",30,70,"US"],["Naz Hilmon","PF",25,65,"US"],["Te-Hyna Paoppao","PG",23,62,"US"],["Maia Caldwel","SG",27,60,"US"],["Nia Coffei","PF",30,58,"US"]],"Seattle Storm":[["Nnekka Oggwumike","PF",35,78,"US"],["Scylar Digginz","PG",35,76,"US"],["Gavby Williamms","SF",29,72,"FR"],["Ezi Maggbegor","C",26,72,"AU"],["Eryca Wheeller","PG",34,64,"US"],["Domminique Mallonga","C",20,66,"FR"],["Brittnei Syces","SG",31,70,"US"],["Lexye Broun","SG",31,60,"US"],["Macckenzie Holmez","PF",25,58,"US"]],"Golden State Valkyries":[["Kayla Thorrnton","SF",33,68,"US"],["Veronica Burrton","PG",25,68,"US"],["Tiffany Hayez","SG",36,65,"AZ"],["Janelle Sallaün","PF",24,64,"FR"],["Temi Fággbénlé","C",33,62,"GB"],["Cecilia Zandalasyni","SF",29,64,"IT"],["Monique Bilings","PF",29,62,"US"],["Iliana Ruppert","C",24,64,"FR"],["Kate Martyn","SG",25,58,"US"]],"Washington Mystics":[["Kikki Irriafen","PF",22,70,"US"],["Sonya Cittron","SG",22,70,"US"],["Shakkira Ausstin","C",25,69,"US"],["Aalliyah Edwardz","PF",23,64,"CA"],["Jadde Melvourne","PG",23,60,"AU"],["Georgya Ammoore","PG",23,62,"AU"],["Emyly Enngstler","PF",25,60,"US"],["Sug Suton","PG",26,58,"US"]],"Los Angeles Sparks":[["Kelsei Plume","PG",31,79,"US"],["Dearika Hambi","PF",32,74,"US"],["Asurá Stebens","PF",29,70,"US"],["Ryckea Jakkson","SF",24,68,"US"],["Cammeron Brynk","PF",24,66,"US"],["Rae Burrel","SG",25,60,"US"],["Julye Vannloo","PG",32,60,"BE"],["Emmae Canon","PF",36,56,"US"],["Oddyssey Simms","PG",33,58,"US"]],"Chicago Sky":[["Angel Reesse","PF",23,76,"US"],["Kamilla Cardozo","C",24,72,"BR"],["Ariel Atkinz","SG",29,70,"US"],["Courtney Vanndersloot","PG",36,66,"HU"],["Rachel Bannham","PG",32,62,"US"],["Michaela Onnyenwere","SF",26,60,"US"],["Hailey Van Lyth","PG",24,60,"US"],["Elizabeth Williamms","C",32,60,"US"],["Kia Nurrse","SG",29,58,"CA"]],"Dallas Wings":[["Payge Bueccers","PG",24,80,"US"],["Arrike Ogunvowale","SG",29,76,"US"],["Maddi Sieggrist","PF",26,66,"US"],["Myysha Hines-Alen","PF",29,62,"US"],["Li Yuerru","C",26,64,"CN"],["DyJonai Carrinngton","SG",27,64,"US"],["Halley Jonez","SF",24,60,"US"],["Azziaha Jamez","SG",22,58,"US"],["Luiza Geizelsöder","C",25,60,"DE"]],"Connecticut Sun":[["Marina Mabrei","SG",29,70,"US"],["Tina Charrles","C",37,68,"US"],["Saniya Ribers","SF",22,64,"US"],["Aneesah Morrou","PF",23,66,"US"],["Olivia Nelzon-Ododa","C",25,62,"US"],["Leïla Laccan","PG",21,62,"FR"],["Bria Hartlei","SG",33,60,"US"],["Jacy Shelldon","PG",24,60,"US"],["Lindsay Alen","PG",30,58,"US"]],"Toronto Tempo":[["Nattalie Achonua","PF",33,62,"CA"],["Laetticia Ammihere","PF",24,62,"CA"],["Nyrra Fyelds","SG",31,60,"CA"],["Shai Collei","PG",29,60,"CA"],["Sila Suords","SF",20,60,"CA"],["Kaila Allexander","C",34,58,"CA"]],"Portland Fire":[["Teaira MkCowan","C",29,66,"US"],["Kiana Wiliams","PG",28,58,"US"],["Destanni Hennderson","PG",27,58,"US"],["Megan Guztafson","C",29,58,"US"],["Haley Peterz","SF",33,56,"US"],["Bree Hal","SG",24,56,"US"]]};
-  CAA.RealRosters = { ROSTERS };
+  // Plantillas femeninas (WNBA). El resto son masculinas: un club con sección femenina del mismo nombre (Valencia
+  // Basket, Casademont Zaragoza, Virtus Bologna…) no debe heredar la plantilla masculina.
+  const WOMEN = new Set(['Minnesota Lynx', 'New York Liberty', 'Las Vegas Aces', 'Indiana Fever', 'Phoenix Mercury', 'Atlanta Dream', 'Seattle Storm', 'Golden State Valkyries', 'Washington Mystics', 'Los Angeles Sparks', 'Chicago Sky', 'Dallas Wings', 'Connecticut Sun', 'Toronto Tempo', 'Portland Fire']);
+  function forClub(name, gender) { const r = ROSTERS[name]; if (!r) return null; return (gender === 'women') === WOMEN.has(name) ? r : null; }
+  CAA.RealRosters = { ROSTERS, WOMEN, forClub };
   if (typeof module !== 'undefined' && module.exports) module.exports = CAA.RealRosters;
 })(typeof globalThis !== 'undefined' ? globalThis : this);

diff --git a/src/render/livesim.js b/src/render/livesim.js
@@ -16,7 +16,7 @@
     [[6.8, 1.8], [1.0, -6.4], [6.6, -3.6], [4.8, -1.5], [1.6, 2.2]],
     [[7.2, -1.2], [5.8, 4.4], [1.0, 6.4], [1.8, -2.2], [4.4, 1.6]]
   ];
-  const MAXDUR = { jump: 2.6, shot: 4.6, rebound: 2.0, turnover: 2.6, foul: 1.2, ft: 2.6, flow: 0.3, final: 1e9 };
+  const MAXDUR = { jump: 2.6, shot: 4.4, rebound: 1.6, turnover: 2.2, foul: 1.0, ft: 2.2, flow: 0.3, final: 1e9 };
   const FILLER = { foul: 1, rebound: 1, ft: 1, turnover: 1 };
   const ZONE = { restricted: [0.9, 0.5], paint: [2.6, -1.4], midShort: [4.3, 2.4], midLong: [5.6, -3.4], corner3: [0.9, 6.55], above3: [7.4, 0.8] };
 
@@ -153,7 +153,7 @@
         else { passTo(sim, s.shooter); s.gotBall = true; }
       }
       const near = Math.hypot(sh.x - x, sh.z - zz) < 0.7;
-      if (s.gotBall && b.holder === s.shooter && !b.flight && (near || s.t > 3.2) && !s.released) {
+      if (s.gotBall && b.holder === s.shooter && !b.flight && (near || s.t > 2.7) && !s.released) {
         s.released = true; s.relT = s.t; sh.jumpT = 0; sh.arms = 1; df.jumpT = 0.05; df.arms = 1;
         const hx = hoopX(sim, off), dist = Math.hypot(hx - sh.x, sh.z);
         if (s.blocked) { sim.fx.push({ k: 'block', team: 1 - off, player: df.name }); sim.cam.shake = 0.25; } if (s.blocked) fly(sim, [sh.x, 2.4, sh.z], [sh.x + side(off) * 0.6, 3.0, sh.z + 0.4], 0.22, 0.2, () => { fly(sim, [b.x, b.y, b.z], [sh.x - side(off) * 2.5, 0.12, sh.z + 1.5], 0.7, 0.8, () => { b.loose = true; }); });
@@ -165,11 +165,11 @@
       if (s.released && !b.flight) {
         // Tras el tiro: bajan a por el rebote (fallo) o vuelven a defender (canasta).
         for (const a of sim.actors) {
-          if (s.made) { const [hx2, z2] = spot(sim, 1 - a.team, 6 + a.slot * 0.6, (a.slot - 2) * 2.4); a.tx = -hx2; a.tz = z2; a.face = null; a.stance = 0; }
+          if (s.made) continue;
           else if (a.slot >= 3) { a.tx = lerp(a.x, b.x, 0.55); a.tz = lerp(a.z, b.z, 0.55); }
         }
         if (!s.made && s.t > (s.relT || 0) + 1.3) s.done = true;
-        if (s.made && s.t > (s.relT || 0) + 1.8 && !s.handed) { s.handed = true; sim.poss = 1 - off; sim.script = { type: 'flow', t: 0, inbound: true }; }
+        if (s.made && s.t > (s.relT || 0) + 1.1 && !s.handed) { s.handed = true; sim.poss = 1 - off; sim.script = { type: 'flow', t: 0, inbound: true }; }
       }
     } else if (s.type === 'rebound') {
       const r = sim.actors[s.who >= 0 ? s.who : s.off * 5 + 4];
@@ -236,7 +236,7 @@
     const list = sim.actors.concat(sim.refs);
     for (const a of list) {
       const dx = a.tx - a.x, dz = a.tz - a.z, d = Math.hypot(dx, dz);
-      const top = (a.ref ? 4.6 : 6.8) * (a.run || 1) * (a.stance ? 0.72 : 1);
+      const top = (a.ref ? 5 : 7.6) * (a.run || 1) * (a.stance ? 0.72 : 1);
       const want = d < 0.08 ? 0 : Math.min(top, d * 3.2);
       const vx = d > 0 ? dx / d * want : 0, vz = d > 0 ? dz / d * want : 0;
       const k = 1 - Math.exp(-dt * 7);
@@ -285,7 +285,7 @@
   function camera(sim, aspect) {
     const c = sim.cam, W = sim.W, far = aspect < 1.2 ? 1.18 : 1;
     const sh = c.shake || 0, jx = sh ? Math.sin(sim.t * 61) * sh : 0, jy = sh ? Math.cos(sim.t * 47) * sh * 0.6 : 0;
-    return { eye: [c.x * 0.92 + jx, 11.2 * far + jy, W / 2 + 15.5 * far], target: [c.x + jx * 0.5, 0.4 + jy * 0.5, -0.9], fov: c.fov * 0.94 * (aspect < 1.2 ? 1.15 : 1), near: 0.5, far: 95 };
+    return { eye: [c.x * 0.9 + jx, 9.8 * far + jy, W / 2 + 13.2 * far], target: [c.x + jx * 0.5, 0.6 + jy * 0.5, -0.6], fov: c.fov * 0.9 * (aspect < 1.2 ? 1.15 : 1), near: 0.5, far: 95 };
   }
   function drain(sim) { const f = sim.fx; sim.fx = []; return f; }
   CAA.LiveSim = { create, step, frame, camera, drain, SETS };

diff --git a/src/render/voxel.js b/src/render/voxel.js
@@ -387,10 +387,12 @@
     const ref = !!p.ref;
     const jersey = ref ? 'refShirt' : p.team ? 'away' : 'home', shorts = ref ? 'refPants' : p.team ? 'awayShorts' : 'homeShorts', sock = ref ? 'refPants' : p.team ? 'awaySock' : 'homeSock';
     const skin = ['skinA', 'skinB', 'skinC'][((p.number || 0) * 7 + (p.team || 0) * 3) % 3];
-    const c = Math.cos(p.yaw), s = Math.sin(p.yaw), h = (p.big ? 1.1 : 1) + ((p.number || 0) % 3) * 0.03;
+    // Jugadoras: algo más bajas y estilizadas (hombros, torso y caderas más estrechos), con peinado propio.
+    const fw = p.women && !ref ? 0.88 : 1;
+    const c = Math.cos(p.yaw), s = Math.sin(p.yaw), h = ((p.big ? 1.1 : 1) + ((p.number || 0) % 3) * 0.03) * (p.women && !ref ? 0.94 : 1);
     const run = clamp((p.speed || 0) / 6.5, 0, 1), ph = (p.stride || 0) * 2.1, st = p.stance ? 1 : 0, up = clamp(p.armsUp || 0, 0, 1);
     const bob = Math.abs(Math.sin(ph)) * 0.06 * run - st * 0.12;
-    const part = (x, y, z, sx, sy, sz, color) => add(p.x + x * c + z * s, p.y + (y + (y > 0.82 ? bob : bob * 0.5)) * h, p.z - x * s + z * c, sx, sy * h, sz, color, p.yaw);
+    const part = (x, y, z, sx, sy, sz, color) => { const k = y > 0.84 && y < 1.62 ? fw : 1; add(p.x + x * k * c + z * s, p.y + (y + (y > 0.82 ? bob : bob * 0.5)) * h, p.z - x * k * s + z * c, sx * k, sy * h, sz * (k < 1 ? 0.94 : 1), color, p.yaw); };
     add(p.x, 0.075, p.z, 0.92, 0.02, 0.74, 'shadow');
     add(p.x, 0.055, p.z, 0.56, 0.02, 0.46, 'shadowDeep');
     for (const s2 of [-1, 1]) {
@@ -426,7 +428,16 @@
       part(ax, ay, az, 0.19, 0.4, 0.22, ref ? jersey : skin);
       part(ax, ay + (up > 0.05 ? 0.36 : -0.3), az + 0.02, 0.17, 0.16, 0.2, skin);
     }
-    if (p.women) { part(0, 1.9, -0.24, 0.16, 0.13, 0.11, 'hair'); part(0, 1.68, -0.27, 0.12, 0.26, 0.1, 'hair'); }
+    if (p.women && !ref) {
+      // Tres peinados según la jugadora: coleta alta que se balancea al correr, moño o trenzas; cinta en el pelo.
+      const style = ((p.number || 0) * 5 + (p.team || 0)) % 3, sw = Math.sin(ph) * 0.06 * run;
+      part(0, 1.95, lean - 0.02, 0.46, 0.14, 0.44, 'hair');
+      part(-0.22, 1.8, lean - 0.04, 0.05, 0.3, 0.36, 'hair'); part(0.22, 1.8, lean - 0.04, 0.05, 0.3, 0.36, 'hair');
+      part(0, 1.9, lean + 0.02, 0.45, 0.05, 0.43, jersey);
+      if (style === 0) { part(sw, 1.92, lean - 0.25, 0.15, 0.14, 0.12, 'hair'); part(sw * 1.6, 1.7, lean - 0.31, 0.12, 0.32, 0.1, 'hair'); part(sw * 2, 1.5, lean - 0.33, 0.09, 0.14, 0.08, 'hair'); }
+      else if (style === 1) { part(0, 2.06, lean - 0.16, 0.22, 0.17, 0.2, 'hair'); }
+      else { part(-0.12 + sw, 1.62, lean - 0.24, 0.08, 0.42, 0.08, 'hair'); part(0.12 + sw, 1.62, lean - 0.24, 0.08, 0.42, 0.08, 'hair'); }
+    }
   }
   function geometry(match, index, progress, options = {}) {
     const quality = options.quality === 'balanced' ? 'balanced' : 'low';

diff --git a/src/ui/app.js b/src/ui/app.js
@@ -306,7 +306,7 @@
       const m = raw.match, seq = Math.max(0, (pbSeq(raw) || 1) - 1);
       const reduced = CAA.A11Y.reduced(state.settings);
       if (!liveSim || liveSim.id !== m.matchId) { liveSim = CAA.LiveSim.create(m, { women: careerWomen() }); liveSimT = ts; }
-      const dt = Math.max(0, (ts - (liveSimT || ts)) / 1000) * (pb.speed > 1 ? Math.min(2, pb.speed * 0.7) : 1); liveSimT = ts;
+      const dt = Math.max(0, (ts - (liveSimT || ts)) / 1000) * (pb.speed > 1 ? Math.min(3, pb.speed * 0.75) : 1); liveSimT = ts;
       CAA.LiveSim.step(liveSim, m, seq, reduced ? 0.05 : dt);
       const fr = CAA.LiveSim.frame(liveSim);
       const diff = Math.abs(m.score[0] - m.score[1]), clutch = m.period >= 4 && m.gameClock <= 1800 && diff <= 8;
@@ -324,6 +324,7 @@
   }
   // ===== Directo en tiempo real (como el fútbol): el motor ya ha calculado hasta el próximo momento clave;
   // la interfaz lo reproduce con el reloj corriendo (⏸ ▶ ▶▶ ▶▶▶) y solo enseña la decisión al llegar a ella. =====
+  const STAGED = { shot: 1, block: 1, ft: 1, turnover: 1, rebound: 1, foul: 1 };
   const PB_RATE = { 1: 200, 2: 420, 4: 900 }; // décimas de partido por segundo real (×1 ≈ un minuto cada 3 s)
   let pb = { key: null, seq: 0, cursor: 0, speed: 1, hold: 0 }, pbTimer = null, pbLast = 0, pbFetching = false;
   function pbProfile(m) { return CAA.Rules.getProfile(m.ruleSetId); }
@@ -395,6 +396,10 @@
     if (!p.speed) return;
     if (p.hold > 0) { p.hold -= dt; return; }
     const m = raw.match, prof = pbProfile(m);
+    // Con el 3D a la vista, el directo espera a que la retransmisión escenifique la jugada anterior: así cada punto del
+    // marcador llega con su canasta (como en la tele) y no se ven puntos sin jugada.
+    const tv = state.liveView !== '2d' && liveSim && liveSim.id === m.matchId && doc.getElementById('live3d') && !CAA.A11Y.reduced(state.settings);
+    if (tv && (liveSim.queue.length || !liveSim.script.done && liveSim.script.type !== 'flow' && liveSim.script.type !== 'final' && liveSim.script.t < 5.2)) return;
     p.cursor += dt / 1000 * PB_RATE[p.speed];
     let changed = false;
     while (p.seq < m.events.length) {
@@ -402,6 +407,7 @@
       if (evAbs(prof, e.period, e.clock) > p.cursor) break;
       p.seq++; changed = true;
       if (e.type === 'periodEnd') { p.hold = 1400 / p.speed; if (audio) audio.play('buzzer'); break; }
+      if (tv && STAGED[e.type]) { p.cursor = Math.max(p.cursor, evAbs(prof, e.period, e.clock)); break; }
       if (e.type === 'shot' && e.made && audio && e.team === raw.userTeam) audio.play('click');
     }
     if (p.seq >= m.events.length && (raw.moment || raw.finished)) { pbStop(); render(); return; }

diff --git a/src/domain/season.js b/src/domain/season.js
@@ -44,7 +44,7 @@
     const budget = leagueBudget(league), gender = league.gender === 'f' ? 'women' : 'men';
     const nat = () => league.pool ? (rng.float() < league.share ? league.pool[0] : rng.pick(league.pool.slice(1))) : league.region === 'EU' ? (rng.float() < 0.6 ? 'ES' : rng.pick(['FR', 'DE', 'IT', 'TR', 'GR', 'LT', 'RS', 'AR', 'BR'])) : rng.pick(['US', 'US', 'US', 'CA', 'FR', 'AU', 'CN', 'JP', 'KR', 'PH', 'ZA']);
     // Plantilla real versionada (estilo PES) si el club la tiene; el resto hasta 12 se genera.
-    const real = league.realClubs && RealRosters && RealRosters.ROSTERS[name];
+    const real = league.realClubs && RealRosters && (RealRosters.forClub ? RealRosters.forClub(name, gender) : RealRosters.ROSTERS[name]);
     if (real) real.slice(0, 12).forEach((r, j) => {
       const p = Player.createPlayer({ seed: clubSeed(leagueId, index) + ':r' + j, name: r[0], pos: r[1], age: r[2], quality: r[3], nationality: r[4], gender });
       p.real = true; p.contract = Contracts.offerForPlayer(p, { league: leagueId, budget }, rng, Contracts.NA_ECONOMY_2026_27);
